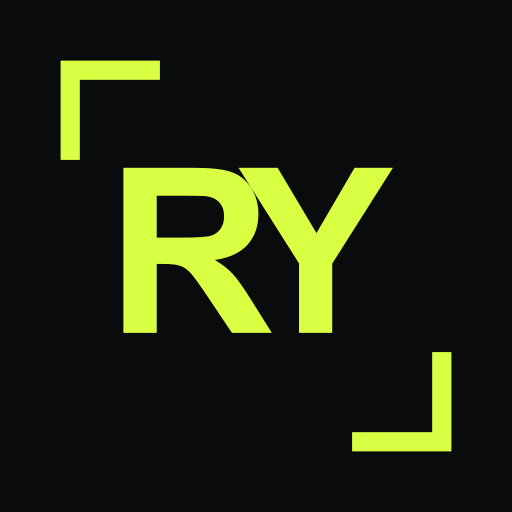
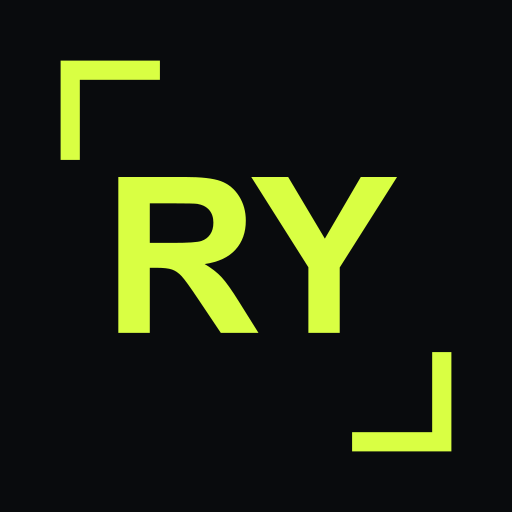
fix: open the gap between the R and Y in the monogram
At font-size 36 with letter-spacing -4 the bowl of the R nearly touched the left
arm of the Y, and at 16px the pair merged into a blob. Dropping the negative
tracking and taking the type down to 34 restores a real counter between the two
letters while keeping the monogram's footprint: the glyphs span 10.5 to 53.9 of
the 64 unit canvas against 11.3 to 53.3 before, so the optical size and the
margins to the corner brackets are unchanged.

Regenerated every derived icon from the updated SVG, per the rule in AGENTS.md:
16px, 32px, the 180px Apple touch icon, favicon.ico, and the 192px, 512px, and
512px maskable manifest icons. The ICO keeps its previous shape, three 32bpp BMP
entries at 48, 32, and 16, and the file was parsed back and its 32px entry
decoded to confirm it is well formed.

Verified on the Zephyr preview: all eight icon URLs return 200 with their
expected types, and Chromium's own render of favicon.svg shows the gap, which
matters because browsers rasterize that file themselves rather than using the
PNGs. pnpm check reports zero errors, warnings, hints.

Changed region(s): [[0.2188, 0.3125, 0.5938, 0.6562], [0.5625, 0.4688, 0.6875, 0.6562], [0.5938, 0.3125, 0.7812, 0.4688]]

diff --git a/AGENTS.md b/AGENTS.md
@@ -42,6 +42,7 @@ This repository is Rodrigo Yokota's personal portfolio at `https://yokota.dev`. 
 - The technology ticker renders two identical groups from `tickerItems`. Each group stays at least `100vw`; the track translates by `-50%` for a seamless loop.
 - The ticker label `translateY(2px)` is an optical correction for Electrolize's font metrics. The diamond separators are geometrically centered.
 - The portrait badge deliberately uses `right: -0.40rem` and a slight rotation.
+- The favicon monogram is Arial Bold at `font-size="34"` with default letter spacing. The `R` and `Y` must stay visually separated: negative letter spacing closes the counter between the bowl of the `R` and the left arm of the `Y`, and it merges into a blob at 16px.
 - Preserve visible focus states, semantic landmarks, reduced-motion behavior, sufficient contrast, and explicit accessible names.
 
 ## Social And SEO
